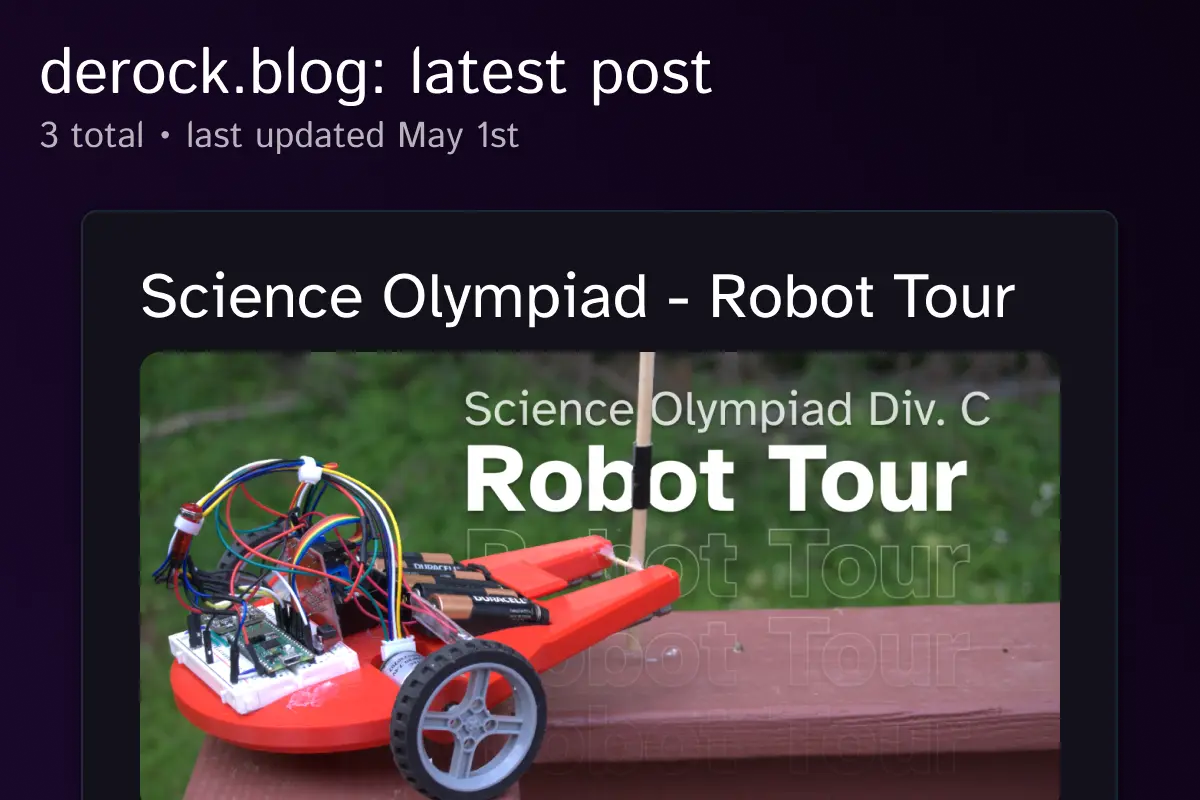
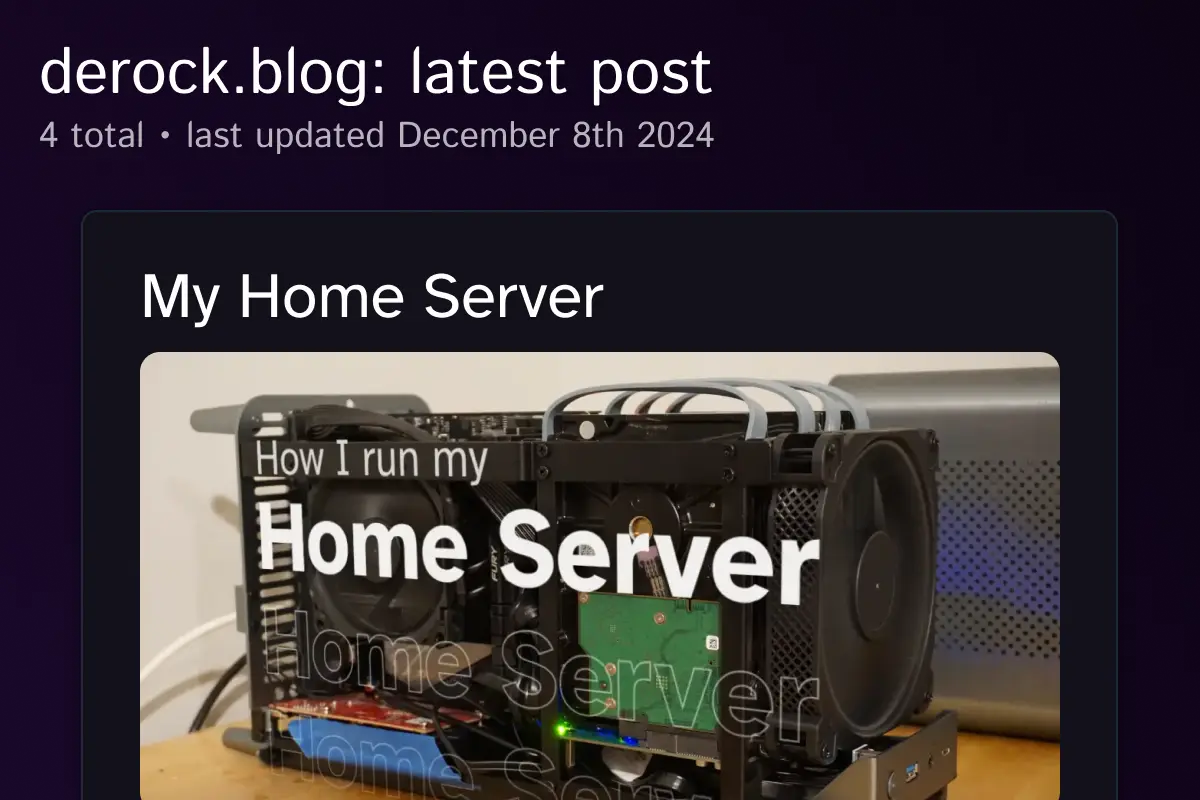
feat: home server post
* wip: home server article
* finish home server post
* feat: update hero image

diff --git a/src/styles/global.css b/src/styles/global.css
@@ -38,6 +38,7 @@ body {
  */
 
 .post {
+
   h1,
   h2,
   h3,
@@ -104,7 +105,7 @@ body {
     @apply p-4 rounded-lg mb-4;
   }
 
-  pre > code {
+  pre>code {
     all: unset;
     @apply text-sm;
   }
@@ -117,8 +118,17 @@ body {
     @apply border-t-gray-400 border-t-2;
   }
 
+  ol,
+  ul {
+    @apply list-inside pl-4 marker:dark:text-gray-400 pb-4;
+  }
+
   ol {
-    @apply list-decimal list-inside pl-4 marker:dark:text-gray-400 pb-4;
+    @apply list-decimal;
+  }
+
+  ul {
+    @apply list-disc;
   }
 }
 
